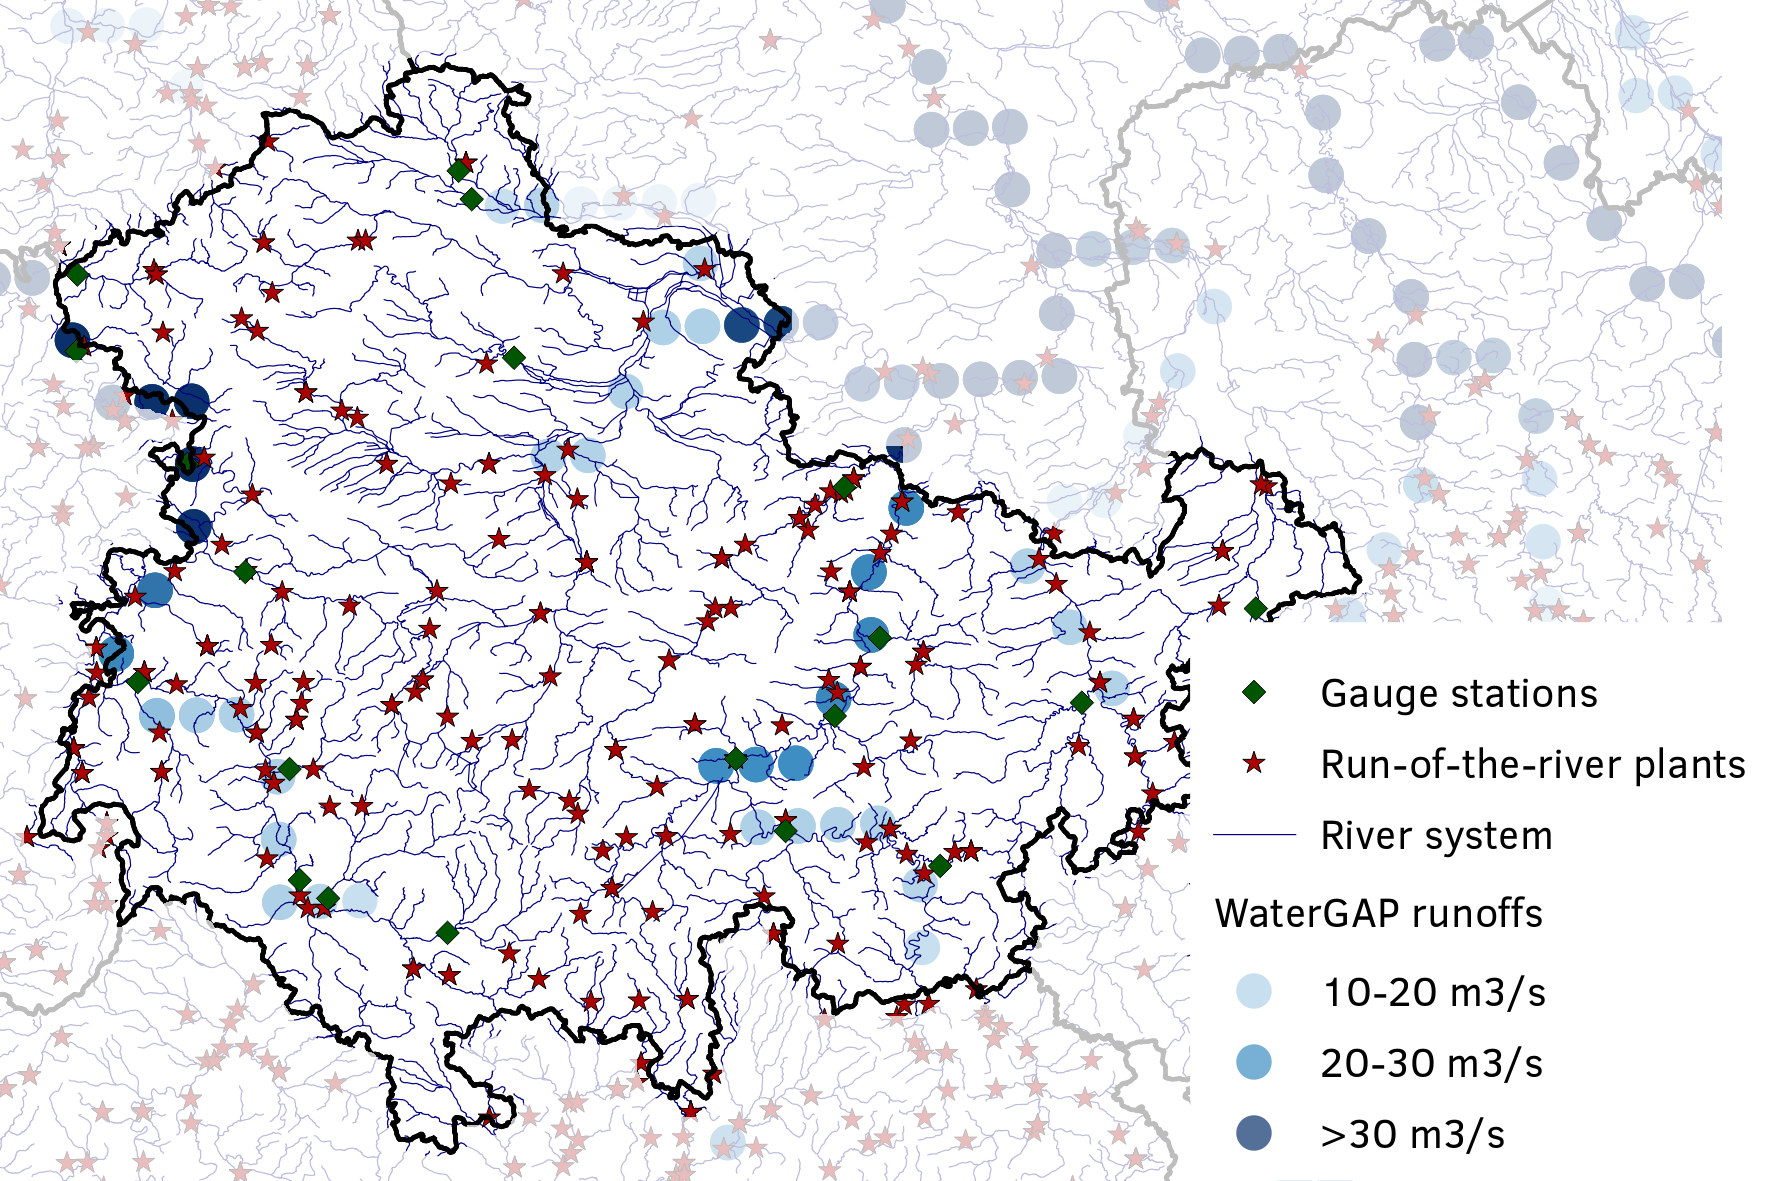
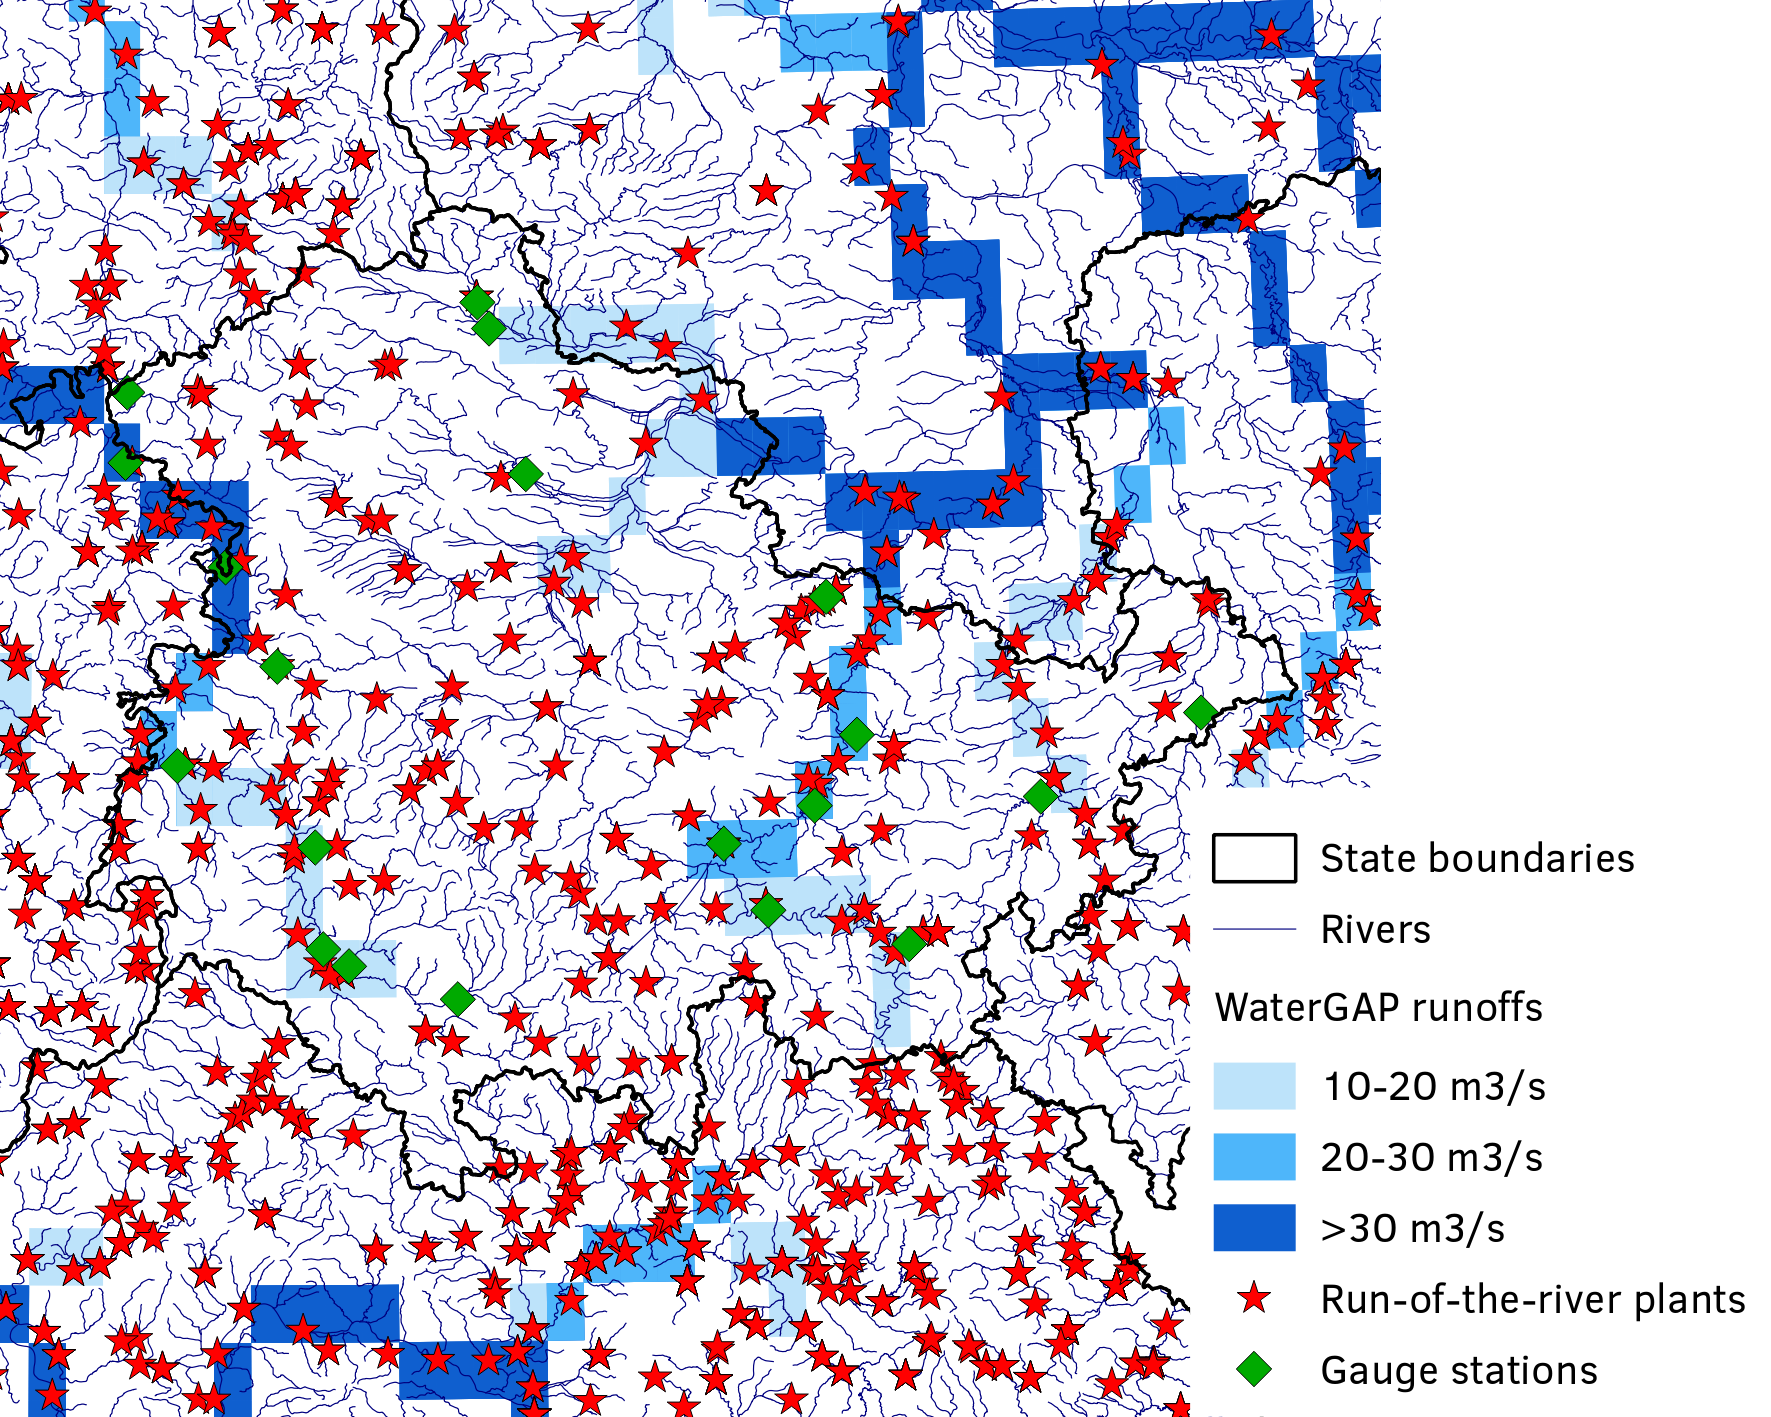
Results

diff --git a/chapter/results.tex b/chapter/results.tex
@@ -41,7 +41,83 @@ The simulated production is significantly over the measured production of the pl
 
 \section{Extrapolation of power plant data}
 \label{missing_data}
-Mosel : check that from Pnenn and flow values over several years we get Hn, Qn and turbine type
+Section \ref{sub:metho_extra} listed stations for which both precise design parameters (nominal water flow, nominal head, number and type of turbines) and runoff data were available. The process of extrapolating missing data was tested for these stations. Their nominal power and number of turbines were fed to the model, and the result of the parameter extrapolation process was compared with the actual plant parameters. This process was done with measured and modeled runoffs as input. The results are given in table \ref{tab_res_extra} which lists for each station the real and simulated nominal water flows, heads and turbine types. \newline
+The results based on the simulation with modeled runoff data shows several results very far from reality, where a very low nominal water flow has been set, inducing an extremely high head. This happens when the plant is in a raster cell containing water flow values inconsistent with the Mosel (see fig. \ref{map_mosel_watergap}). The opposite problem arises for the plant in Koblenz, were the Mosel meets the Rhine. The raster cell where the plant is located is crossed by both rivers, and the high water flow from the Rhine distorts the results. Moreover, section \ref{sub:assumptions} explains that the extrapolation process follows the steps of the design process of a run-of-the-river power plant. This design process is normally based on the study of runoff time series over several decades preceding the plant construction, while modeled time series available for this study covered only the ears 2006 to 2009. \newline
+The results based on measured runoff data seem to provide more coherent results. However,if this process gives good results for large waterways with a steady flow and numerous gauge stations, it is bound to entails uncertainties when applied to plants on minor rivers : in this case, the extrapolation process can be done on runoff data from a much bigger river than the one the plant is actually on.\newline
+Section \ref{ref_to_future_section} shows that this extrapolation process has a big impact on the simulated production and prompts the need to a better adjustment of the runoff data to the plants, for the extrapolation process to be based on consistent data.
+
+
+\begingroup
+\renewcommand\arraystretch{0.8}
+\begin{longtable}{|c|c|c|c|c|}
+ \caption{Results of the parameter extrapolation process}
+ \label{tab_res_extra}\\
+ \hline
+  \textbf{Plant}&\textbf{Parameter}&\textbf{Real}&\textbf{Simulation A}&\textbf{Simulation B}\\
+  \hline
+  \endhead
+  \hline
+  \endfoot
+  \multirow{3}{*}{HydroRaon}&\.V\textsubscript{n}&12&11.1&18.4\\
+  &h\textsubscript{n}&4.23&4.29&2.60\\
+  &Turbine type&Kaplan&Kaplan&Kaplan\\
+  \hline
+  \multirow{3}{*}{Koblenz}&\.V\textsubscript{n}&380&2371&438\\
+  &h\textsubscript{n}&5.3&0.8&4.36\\
+  &Turbine type&Kaplan&dummy&Kaplan\\
+  \hline
+  \multirow{3}{*}{Lehmen}&\.V\textsubscript{n}&400&360&438\\
+  &h\textsubscript{n}&7.5&6.6&5.44\\
+  &Turbine type&Kaplan&Kaplan&Kaplan\\
+  \hline
+  \multirow{3}{*}{Müden}&\.V\textsubscript{n}&400&360&438\\
+  &h\textsubscript{n}&6.5&5.4&4.46\\
+  &Turbine type&Kaplan&Kaplan&Kaplan\\
+  \hline
+  \multirow{3}{*}{Fankel}&\.V\textsubscript{n}&400&359&438\\
+  &h\textsubscript{n}&7&5.4&4.46\\
+  &Turbine type&Kaplan&Kaplan&Kaplan\\
+  \hline
+  \multirow{3}{*}{Neef}&\.V\textsubscript{n}&400&0.4&438\\
+  &h\textsubscript{n}&7&5538&4.46\\
+  &Turbine type&Kaplan&dummy&Kaplan\\
+  \hline
+  \multirow{3}{*}{Enkirch}&\.V\textsubscript{n}&400&1.2&438\\
+  &h\textsubscript{n}&7.5&1808&5\\
+  &Turbine type&Kaplan&Kaplan&Kaplan\\
+  \hline
+  \multirow{3}{*}{Zeltingen}&\.V\textsubscript{n}&400&350&438\\
+  &h\textsubscript{n}&6&4.6&3.7\\
+  &Turbine type&Kaplan&Kaplan&Kaplan\\
+  \hline
+  \multirow{3}{*}{Wintrich}&\.V\textsubscript{n}&400&0.3&381\\
+  &h\textsubscript{n}&7.5&8192&6.25\\
+  &Turbine type&Kaplan&dummy&Kaplan\\
+  \hline
+  \multirow{3}{*}{Detzem}&\.V\textsubscript{n}&400&13.3&381\\
+  &h\textsubscript{n}&9&30.6&7.5\\
+  &Turbine type&Kaplan&dummy&Kaplan\\
+  \hline
+  \multirow{3}{*}{Trier}&\.V\textsubscript{n}&400&0.6&381\\
+  &h\textsubscript{n}&7.25&3768&5.9\\
+  &Turbine type&Kaplan&dummy&Kaplan\\
+  \hline
+  \multirow{3}{*}{Grevenmacher}&\.V\textsubscript{n}&165&5.2&381\\
+  &h\textsubscript{n}&6.25&180&2.4\\
+  &Turbine type&Kaplan&Francis&Kaplan\\
+  \hline
+  \multirow{3}{*}{Paltzem}&\.V\textsubscript{n}&150&125&214\\
+  &h\textsubscript{n}&4&4.3&2.5\\
+  &Turbine type&Kaplan&Kaplan&Kaplan\\
+\end{longtable}
+\endgroup
+
+\begin{figure}[H]
+\centering
+\includegraphics[width=12cm]{map_mosel_watergap.png}
+\caption{Power plants of the Mosel with average modeled runoffs}
+\label{map_mosel_watergap}
+\end{figure}
 
 \section{Production prevision for a region}
 \label{sec:res_th}
@@ -57,4 +133,41 @@ The OEDB lists 205 run-of-the-river plants for Thuringia, displayed on figure \r
 \label{map_th}
 \end{figure}
 
-To state-wide simulation were made : one based on modeled runoff and one based on measured runoff. The gauge assignment process described in section \ref{sub:pp_reg} could only assign gauge stations to 201 out of the 205 plants, therefore the simulations based on measured runoff were only run on these 201 plants.
+To state-wide simulations were made : one based on modeled runoff and one based on measured runoff. The data was preprocessed following the guidelines of section \ref{sub:pp_reg} : the location of the plants was refined, placing them on the course of the nearest river, and they were assigned a gauge station (in the case of measured runoff) or raster cell (in the case of modeled runoff). The yearly productions are given in table \ref{res_th} and compared with the AEE values, and the productions of each plant are displayed on figure \ref{prod_th_map}.
+
+\begin{table}[H]
+\footnotesize
+ \centering
+ \caption{Yearly production of Thuringia : measured and simulated data}
+ \label{res_th}
+ \begin{tabular}{|l|ccc|}
+ \hline
+  &\multicolumn{3}{c|}{Yearly production in MWh}\\
+  Year&Published by AEE&Simulated from modeled runoffs&Simulated from measured runoff\\
+  \hline \hline
+  \multirow{2}{*}{2005}&\multirow{2}{*}{180}&119&-\\
+  &&-\unit[34]{\%}&-\\
+  \hline
+  \multirow{2}{*}{2006}&\multirow{2}{*}{163}&105&112\\
+  &&-\unit[36]{\%}&-\unit[31]{\%}\\
+  \hline
+  \multirow{2}{*}{2007}&\multirow{2}{*}{322}&175&162\\
+  &&-\unit[46]{\%}&-\unit[50]{\%}\\
+  \hline
+  \multirow{2}{*}{2008}&\multirow{2}{*}{248}&131&187\\
+  &&-\unit[47]{\%}&-\unit[25]{\%}\\
+  \hline
+  \multirow{2}{*}{2009}&\multirow{2}{*}{200}&-&130\\
+  &&-&-\unit[35]{\%}\\
+  \hline
+ \end{tabular}
+\end{table}
+
+\begin{figure}[H]
+\centering
+\includegraphics[width=15cm]{prod_th_map.png}
+\caption{Simulated production of run-of-the-river plants in Thuringia, based on modeled runoffs}
+\label{prod_th_map}
+\end{figure}
+ 
+The production seems to be significantly underestimated by both simulation processes, and a more advanced analysis with precise data about plants would be needed to assess if the difference is due the inconsistencies between the AEE and Open Power data sets, and if not, which parts of the simulation process cause this difference. Some ideas are given in the sensibility analysis of section \ref{ref_to_future_section}.
